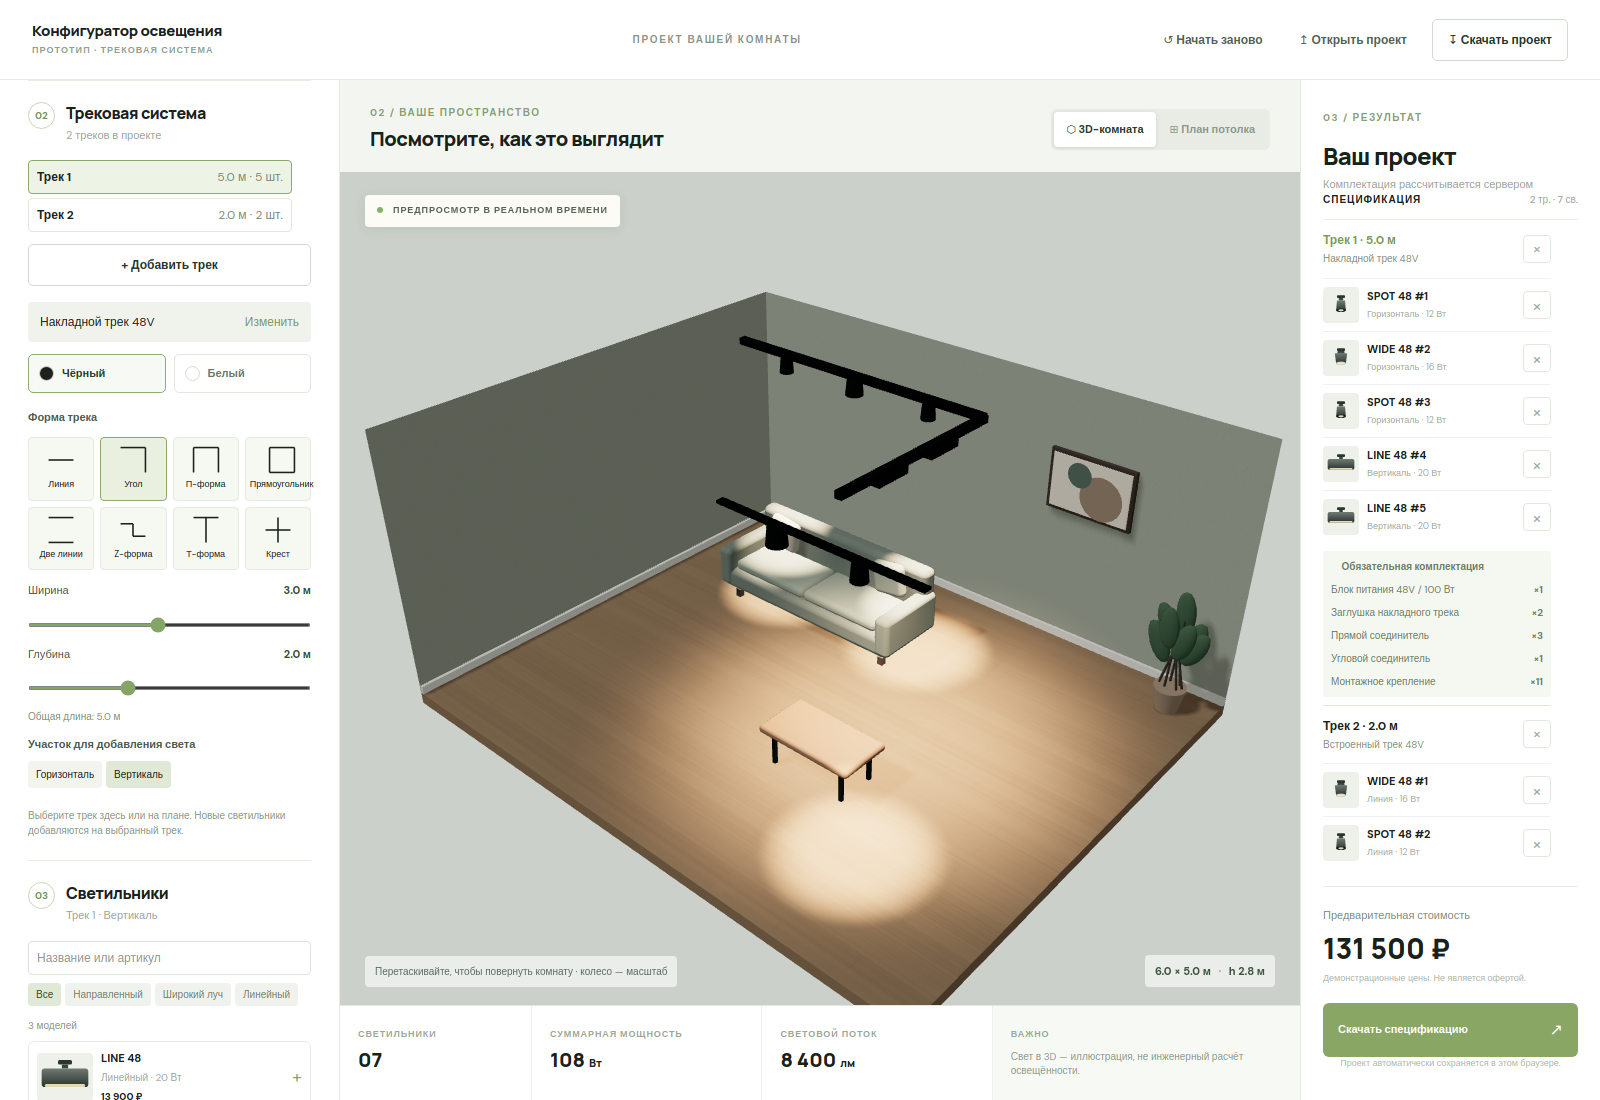
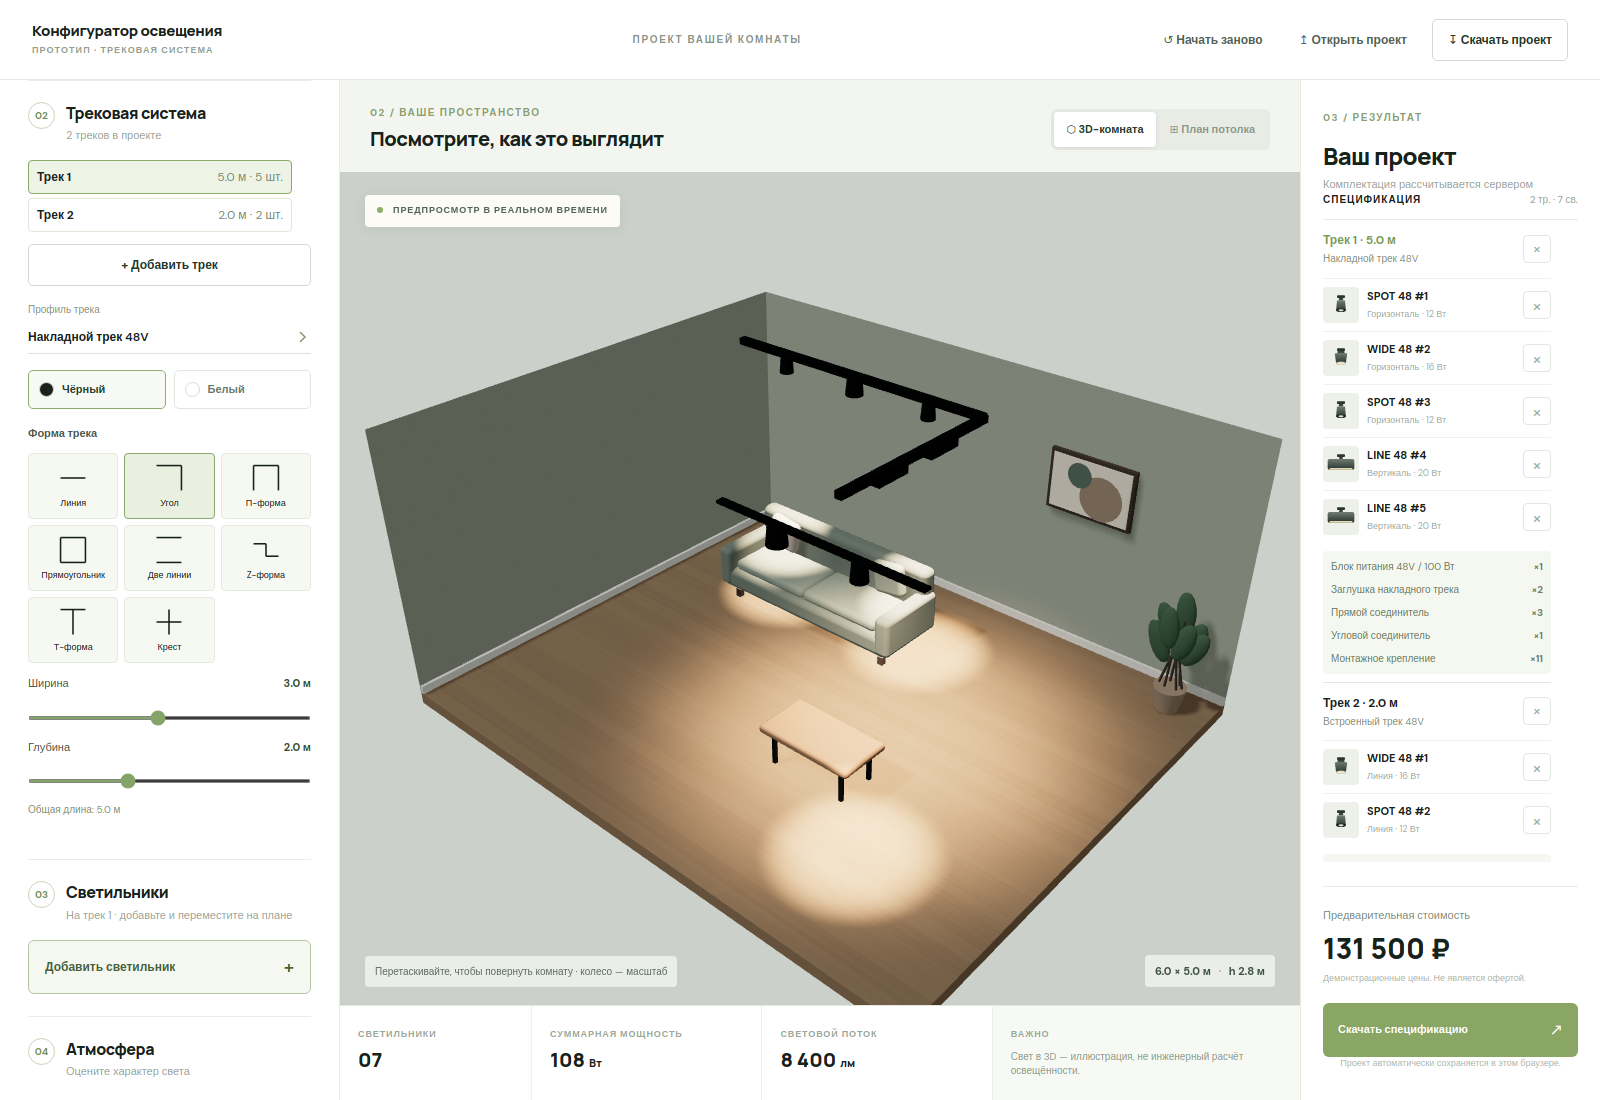
Refresh previews and document room customization plans

diff --git a/docs/architecture.md b/docs/architecture.md
@@ -16,7 +16,7 @@
 | `server/app.ts`                                     | HTTP-обработчик с внедряемым каталогом; отдельно от запуска сервера |
 | `src/project.ts`, `src/projectActions.ts`           | Загрузка, миграция и изменения проекта                              |
 | `src/placement.ts`                                  | Размещение приборов без пересечений на участке                      |
-| `src/CatalogPicker.tsx`, `src/TrackShapeEditor.tsx` | Выбор товара, формы, размеров и активного участка                   |
+| `src/CatalogPicker.tsx`, `src/TrackShapeEditor.tsx` | Выбор товара в диалоге, формы и размеров                            |
 | `src/Plan.tsx`, `src/Room3D.tsx`                    | Отображение одной модели проекта в 2D и 3D                          |
 | `src/ProjectSummary.tsx`                            | Спецификация по трекам и обязательная комплектация                  |
 | `src/useCatalog.ts`                                 | Получение каталога и отложенный запрос расчёта                      |
@@ -28,6 +28,8 @@
 Товар каталога имеет произвольный строковый `id`. Типы `spot`, `wide`, `line` в поле `shape` описывают геометрию представления, а не перечень допустимых артикулов. Десятки моделей могут использовать одну геометрию с разными размерами, характеристиками и ценами. В интерфейсе используется `imageUrl`, если товар имеет изображение; иначе показывается SVG-иллюстрация.
 
 `TrackProduct` содержит тип монтажа, цену секции, длину секции, допустимые формы и правила комплектации. Установленный `TrackPlacement` ссылается на товар через `productId`, но имеет собственный числовой `id`, цвет, положение, форму, размеры и светильники. Несколько треков одного товара не разделяют своё состояние.
+
+При добавлении светильник автоматически попадает на свободный участок выбранного трека. Его можно переместить на плане без отдельного переключателя участков.
 
 Светильник хранит `type` — ID товара, `segmentId` — ID участка своего трека и `t` — положение от 0 до 1 вдоль доступной части участка. Его ID уникален внутри трека. Поэтому выделение хранит пару `{trackId, id}`.
 
@@ -55,7 +57,7 @@
 
 ## Большой каталог и производительность
 
-Каталожная панель показывает не более шести товаров за страницу. Поиск по имени и артикулу, категории и страницы в серверном режиме обращаются к REST; в Pages применяется тот же алгоритм локально. Bootstrap `/api/catalog` пока загружает полный снимок метаданных для геометрии, восстановления проекта и фильтров. Это проверено на 123 светильниках и 32 профилях; для значительно больших каталогов следующий шаг — загрузка деталей выбранных товаров по ID и отдельные метаданные фильтров.
+Диалоги каталогов треков и светильников показывают не более шести товаров за страницу. Поиск по имени и артикулу, категории и страницы в серверном режиме обращаются к REST; в Pages применяется тот же алгоритм локально. Bootstrap `/api/catalog` пока загружает полный снимок метаданных для геометрии, восстановления проекта и фильтров. Это проверено на 123 светильниках и 32 профилях; для значительно больших каталогов следующий шаг — загрузка деталей выбранных товаров по ID и отдельные метаданные фильтров.
 
 Расчёт цены откладывается на 200 мс. Изменение положения, цвета и камеры не вызывает запрос. Старый результат остаётся на экране до ответа; выгрузка спецификации недоступна, пока расчёт не соответствует текущему проекту. Новый запрос отменяет устаревший.
 

diff --git a/docs/roadmap.md b/docs/roadmap.md
@@ -15,6 +15,10 @@
 - Загрузка деталей выбранных моделей по ID вместо полного bootstrap-снимка каталога.
 - Серверное хранение проектов, история версий, совместная работа и формирование заявки — после определения нужного процесса заказчика.
 
+## Кастомизация помещения
+
+Будущий режим настройки интерьера: форма и планировка комнаты, материалы и цвета стен, пола и потолка, окна, двери и расстановка мебели. Сейчас доступны габариты комнаты и демонстрационный интерьер. Состав редактора нужно определить по задачам заказчика: достаточно ли нескольких пресетов или нужен полноценный конструктор помещения.
+
 ## Визуализация и монтаж
 
 - Реальные модели или дополнительные семейства геометрии; сейчас три вида представления покрывают демонстрационные товары.

diff --git a/docs/development.md b/docs/development.md
@@ -48,7 +48,7 @@ npm run preview -- --port 5188
 ## Ручные сценарии
 
 - Открыть старый однотрековый JSON и проверить миграцию.
-- Выбрать Z-форму: появляются три размера; добавить прибор на нижний участок.
+- Выбрать Z-форму: появляются три размера; добавить прибор через каталог и перетащить его на нижний участок.
 - Перетащить прибор через соседний и на другой участок того же трека; проверить отсутствие пересечений.
 - Добавить второй трек, поменять его профиль и удалить прибор с него; первый трек сохраняется.
 - Увеличить длину и нагрузку: меняются секции, соединители, крепления и питание.
